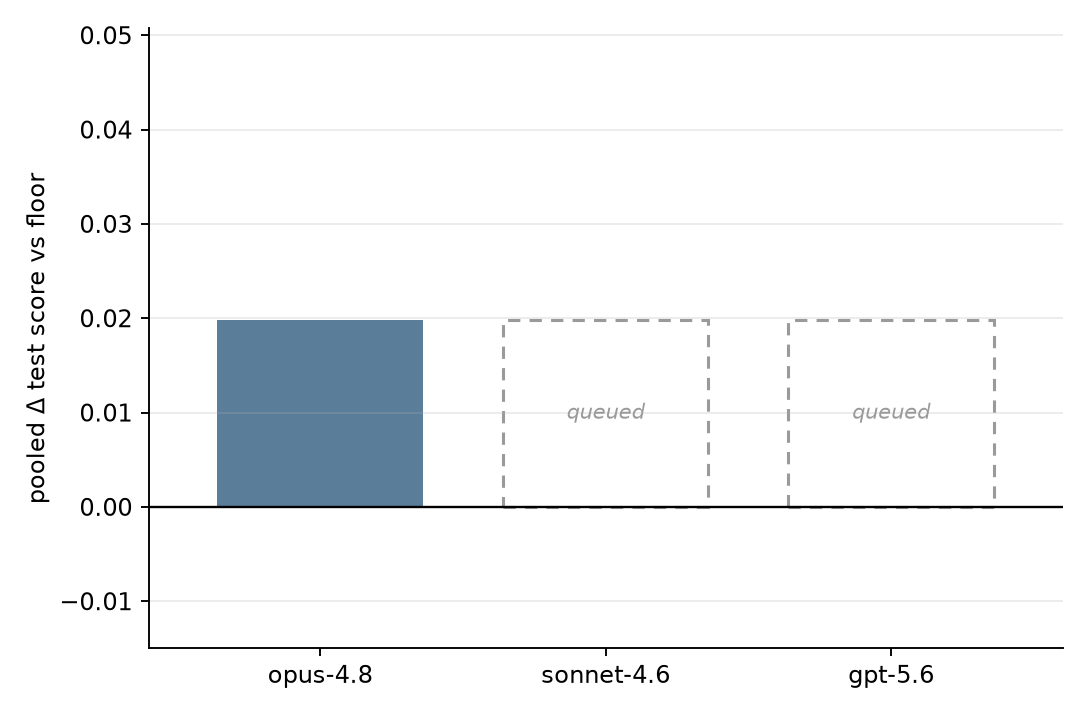
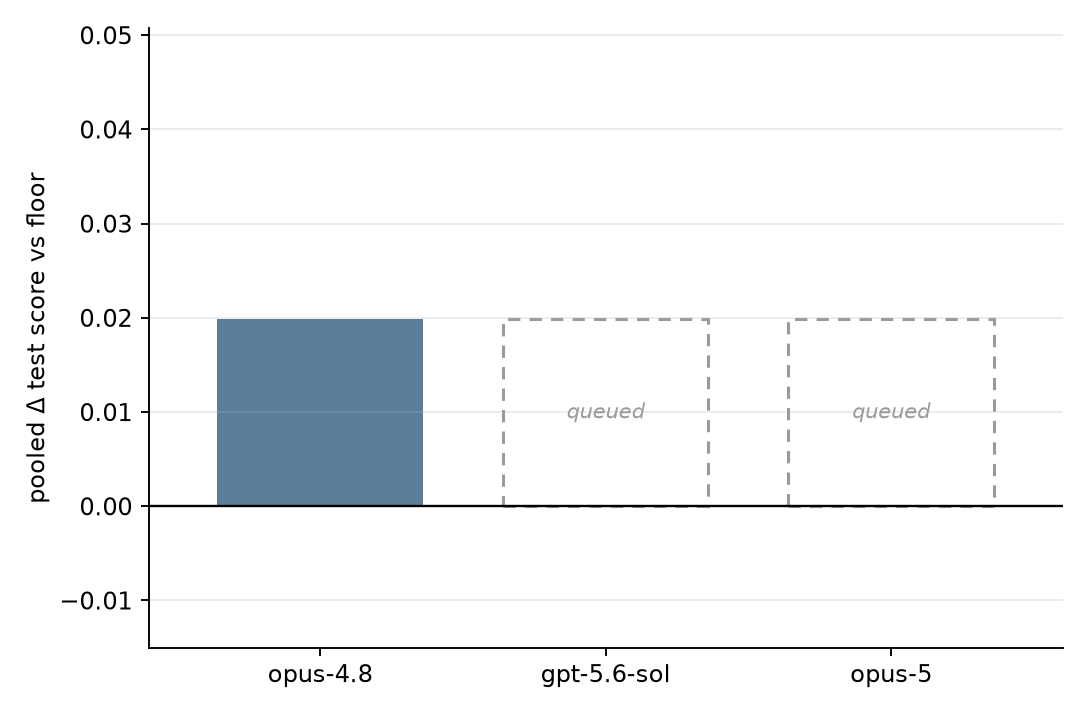
Model-axis queued slots: gpt-5.6-sol and opus-5

diff --git a/posts/01-setup-and-protocol/figures/make_model_axis.py b/posts/01-setup-and-protocol/figures/make_model_axis.py
@@ -3,9 +3,10 @@
 
 Every run in the first slice used meta=opus-4.8, so the model axis has exactly
 one measured value: the pooled mean Δ across all floored method cells (null
-excluded — it is the floor calibration, not a method). The other meta tiers the
-harness is plumbed for (sonnet-4.6, the codex-served gpt-5.6 family — see
-src/mab2/core/pricing.py) are drawn as empty dashed slots: reserved, not run.
+excluded — it is the floor calibration, not a method). The other planned meta
+tiers (gpt-5.6-sol, the codex-served frontier tier — see
+src/mab2/core/pricing.py — and opus-5) are drawn as empty dashed slots:
+reserved, not run.
 
 Reuses collect() from make_method_delta.py so the two panels always agree on
 exclusions and floor handling.
@@ -28,7 +29,7 @@ import matplotlib.pyplot as plt  # noqa: E402
 from matplotlib.patches import Rectangle  # noqa: E402
 
 MEASURED = "opus-4.8"
-QUEUED = ["sonnet-4.6", "gpt-5.6"]
+QUEUED = ["gpt-5.6-sol", "opus-5"]
 
 
 def main():
